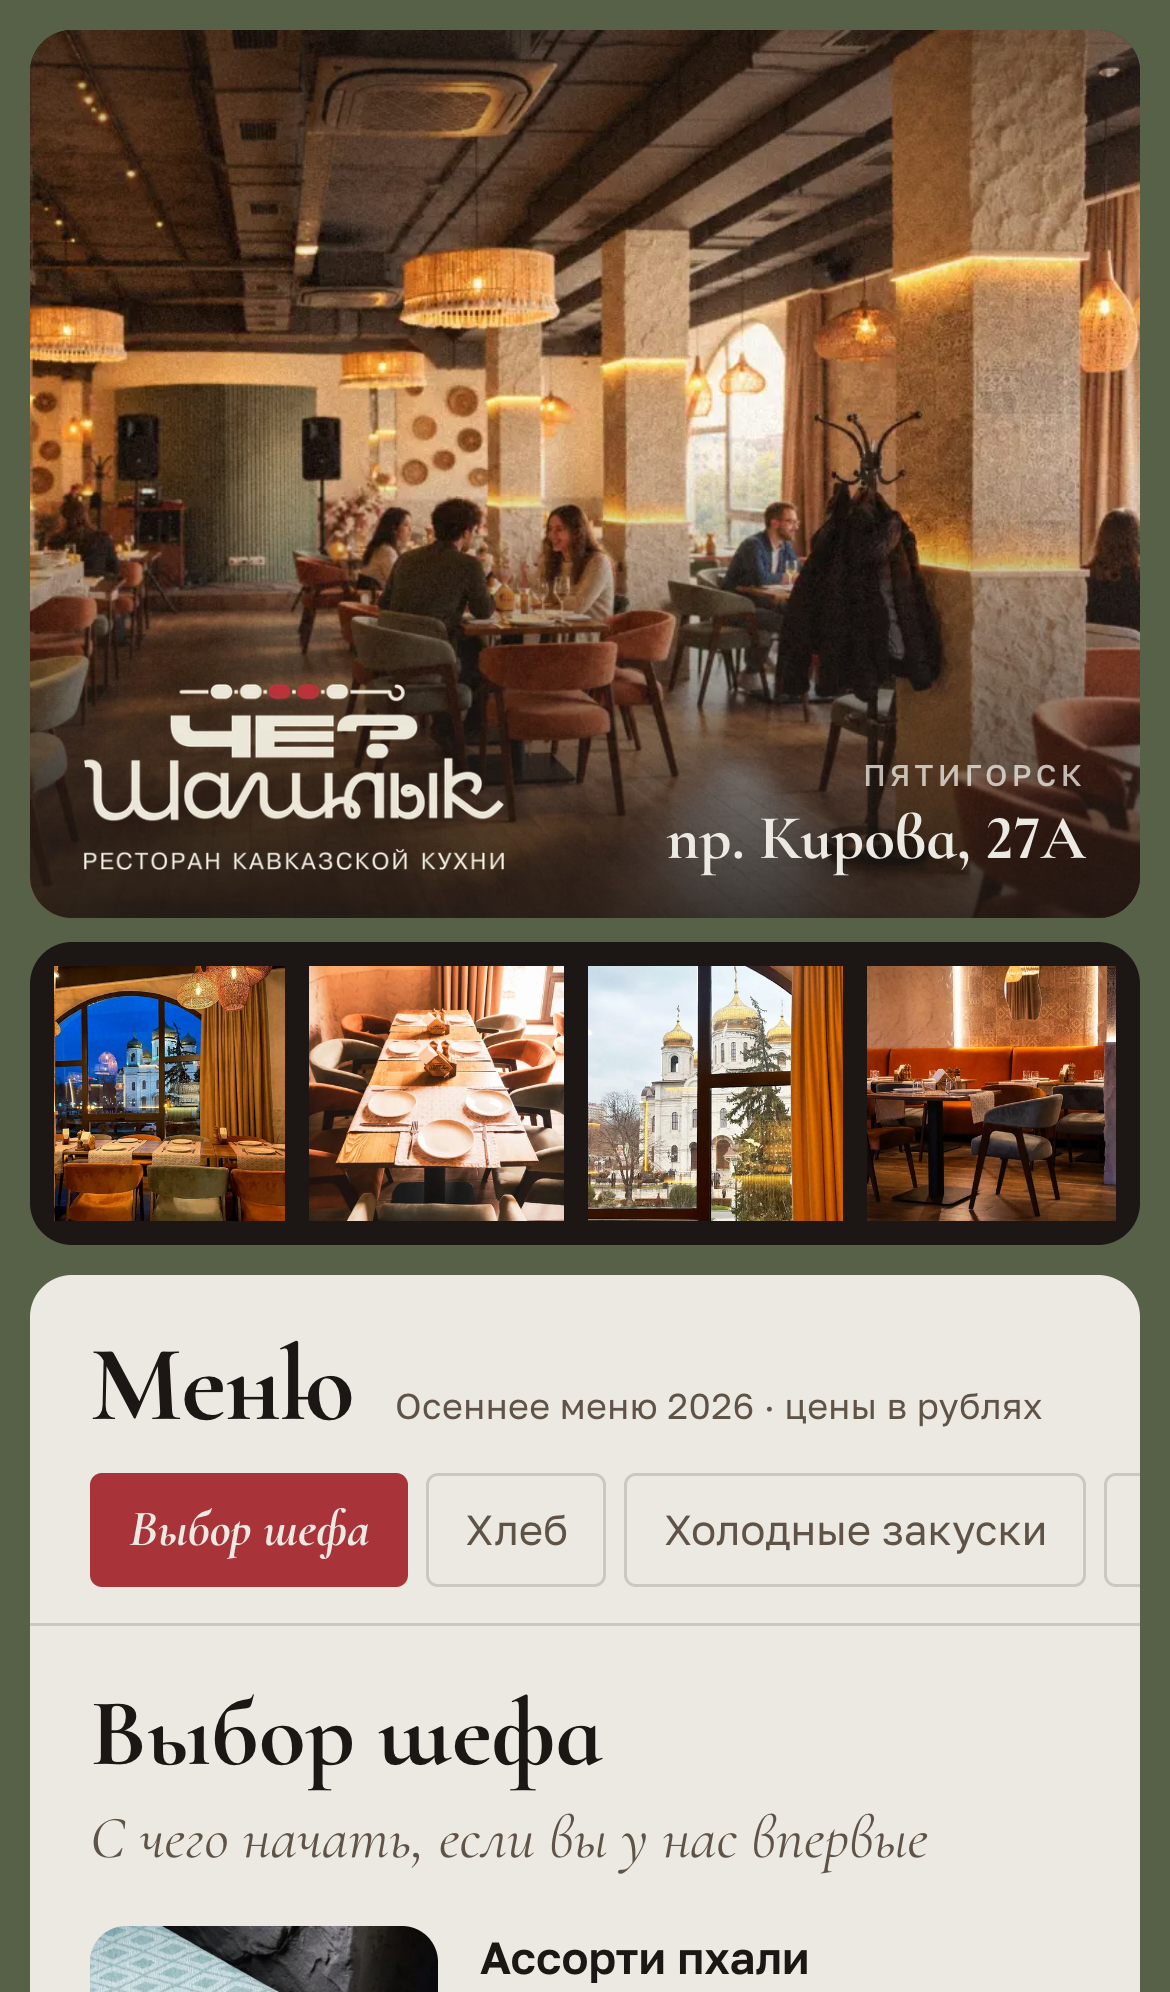
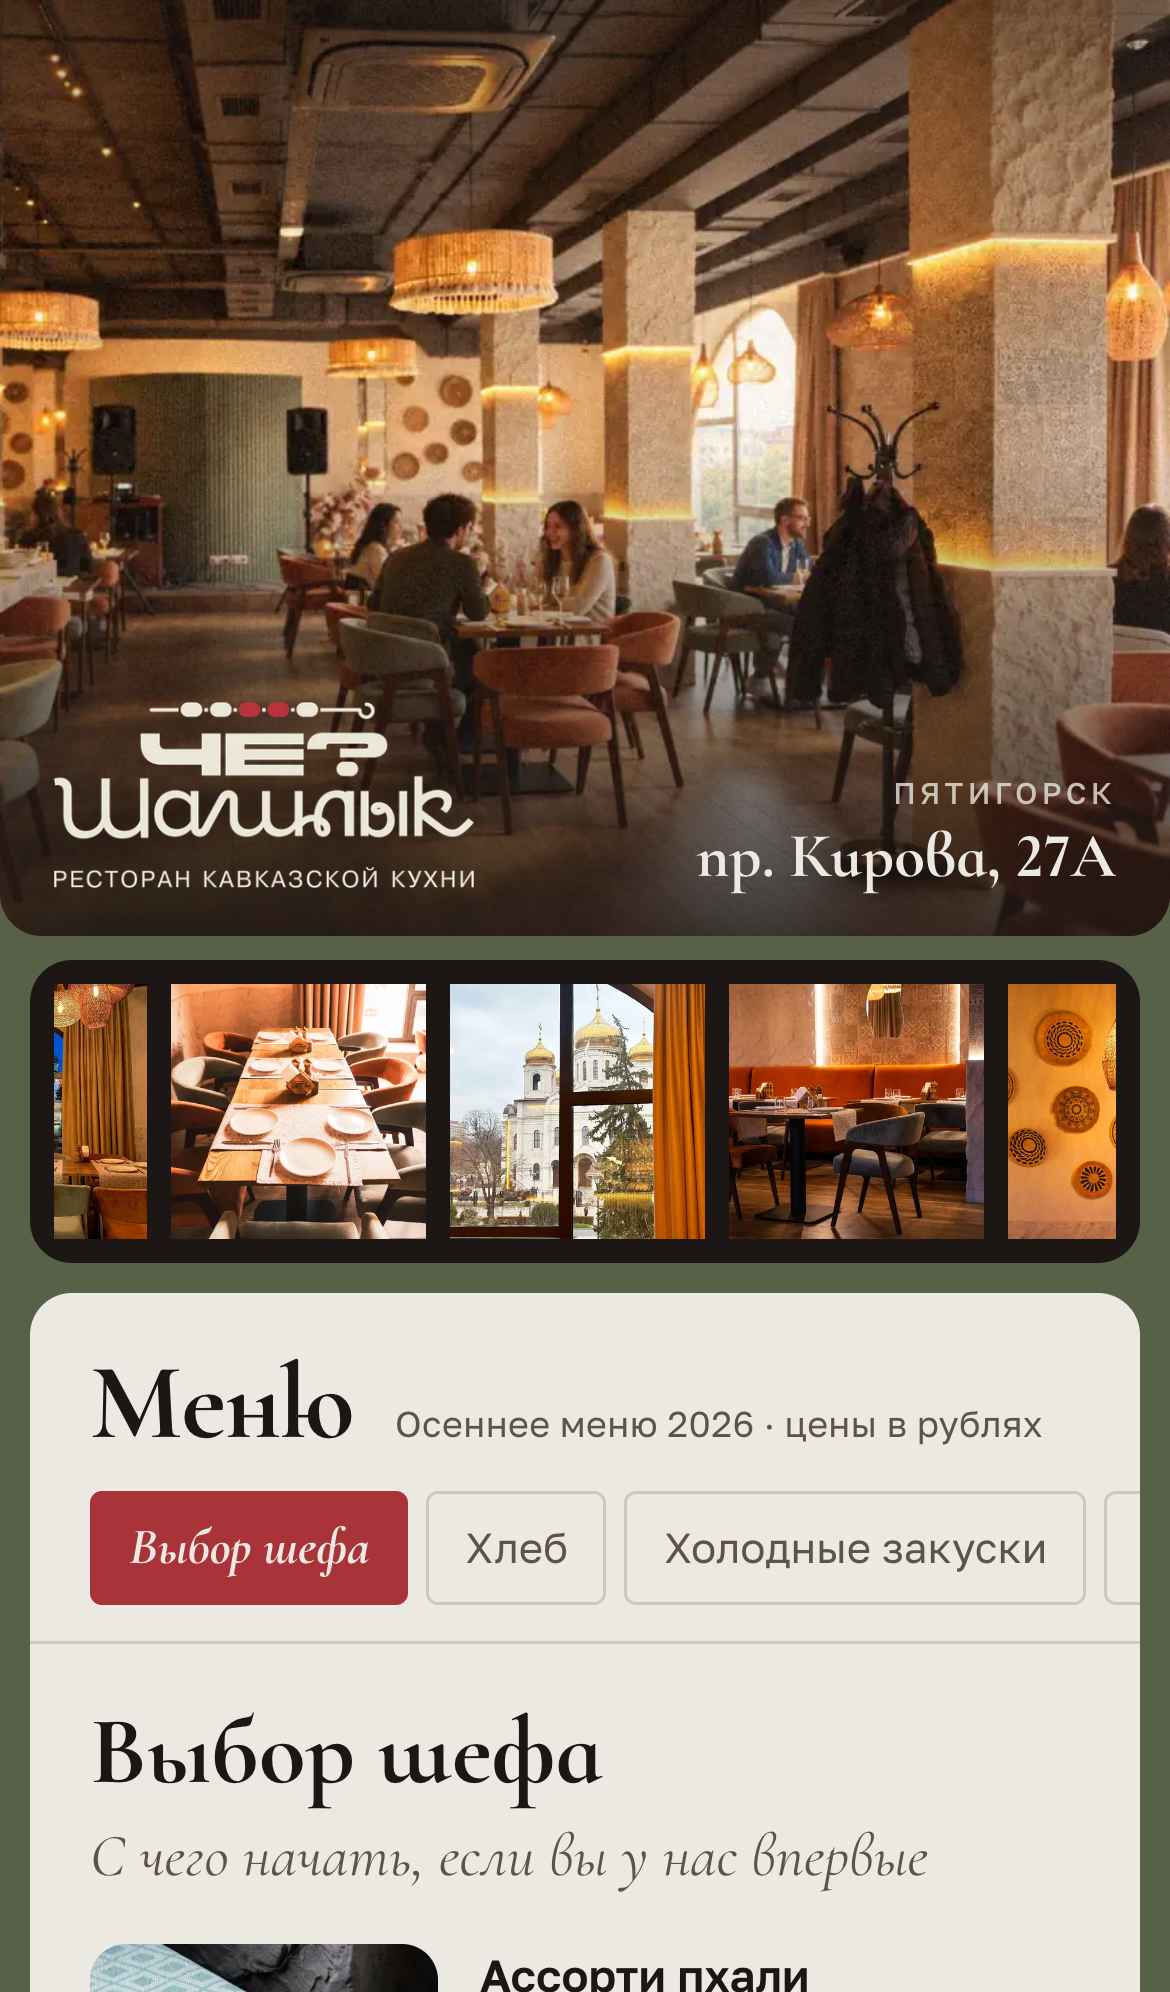
Телефон: главный снимок от самого верха и до краёв, цвет строки состояния под снимок

diff --git a/vers_2/index.html b/vers_2/index.html
@@ -11,7 +11,7 @@
       name="description"
       content="Ресторан кавказской кухни «Чё? Шашлык» в центре Пятигорска, пр. Кирова, 27А. Шашлык на мангале, хачапури, хинкали. Доставка по Пятигорску и бронь: +7 962 499-00-44."
     />
-    <meta name="theme-color" content="#1d1a1f" />
+    <meta name="theme-color" content="#33261b" />
     <meta name="robots" content="index, follow, max-image-preview:large" />
     <!-- verification:start -->
 
@@ -135,7 +135,7 @@
             <source
               media="(max-width: 860px)"
               srcset="/assets/img/hero/hero-1-m480.webp 480w, /assets/img/hero/hero-1-m700.webp 700w, /assets/img/hero/hero-1-m800.webp 800w"
-              sizes="calc(100vw - 20px)"
+              sizes="100vw"
               width="800"
               height="640"
             />

diff --git a/vers_2/assets/css/style.css b/vers_2/assets/css/style.css
@@ -159,6 +159,9 @@ a.addr:hover .addr__street { text-decoration: underline; text-decoration-thickne
 .b { min-width: 0; }
 @media (max-width: 860px) {
   .hero { display: block; }
+  /* на телефоне снимок от самого верха и до краёв экрана: без пустой полосы над ним */
+  .page { padding-top: 0; }
+  .hero__cover { margin: 0 calc(-1 * var(--gap)); border-radius: 0 0 var(--r-card) var(--r-card); }
   .hero__photos li { overflow: visible; }
   .hero__cover { height: auto; aspect-ratio: 5 / 4; }
   .hero__over { left: 18px; right: 18px; bottom: 16px; align-items: flex-end; gap: 12px; }
